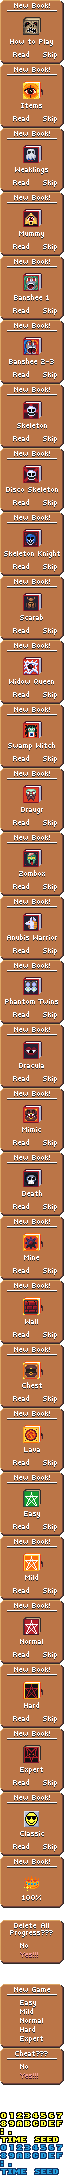
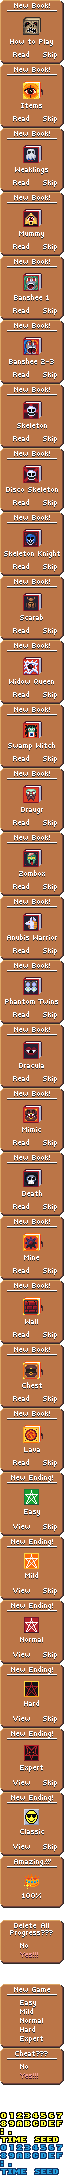
playtest, fixes

Changed region(s): [[0.2812, 0.6562, 0.6875, 0.875], [0.2188, 0.8438, 0.25, 0.875]]

diff --git a/src/main.c b/src/main.c
@@ -827,6 +827,7 @@ static void tile_update(i32 x, i32 y) {
 }
 
 static void set_peek(bool f) {
+  if (g_peek == f) return;
   g_peek = f;
   for (i32 y = 0; y < BOARD_H; y++) {
     for (i32 x = 0; x < BOARD_W; x++) {
@@ -1258,7 +1259,6 @@ static void popup_cheat() {
   if (g_cheat != was_cheating) {
     play_song(SONG_MAIN, true);
   }
-  set_peek(g_cheat ? g_peek : false);
 }
 
 static i32 popup_newgame() {
@@ -1807,8 +1807,8 @@ start_game:
         hint_cooldown = 0;
         hint_cooldown_max = 15;
       }
-      if (g_cheat && (g_hit & SYS_INPUT_ZR)) {
-        set_peek(!g_peek);
+      if (g_cheat) {
+        set_peek(!!(g_down & SYS_INPUT_ZR));
       }
       if (g_hit & SYS_INPUT_U) {
         move_game_cursor(0, -1);
@@ -1856,6 +1856,7 @@ start_game:
         }
       } else if (g_hit & SYS_INPUT_ST) {
         g_time = false;
+        set_peek(false);
         i32 p = pause_menu();
         if (p >= 0 && p < 0x100) {
           // new game
@@ -2134,7 +2135,8 @@ static i32 book_info(enum book_enum book, enum book_info_action action) {
         case BI_DRAW: return DRAW(5, 1, 2);
         case BI_CHECK:
           CHECKG();
-          return count_dead(T_LV9, 10);
+          // you can't actually leave a lv9 dead because they drop required hearts
+          return game->difficulty == 4 ? 10 : 0;
         case BI_CLICK: return book_click_img1(scr_book_lv9_o);
       }
       break;
@@ -2170,7 +2172,8 @@ static i32 book_info(enum book_enum book, enum book_info_action action) {
         case BI_DRAW: return DRAW(9, 1, 1);
         case BI_CHECK:
           CHECKG();
-          return count_dead(T_LAVA, 1) ? 0 : 10; // award mines if we *didn't* blow them up
+          // award mines if we *didn't* blow them up
+          return count_dead(T_LAVA, 1) ? 0 : 10;
         case BI_CLICK: return book_click_img1(scr_book_mine_o);
       }
       break;
@@ -2188,11 +2191,7 @@ static i32 book_info(enum book_enum book, enum book_info_action action) {
         case BI_DRAW: return DRAW(1, 2, 1);
         case BI_CHECK:
           CHECKG();
-          return (
-            count_dead(T_CHEST_HEAL, 10) +
-            count_dead(T_CHEST_EYE2, 10) +
-            count_dead(T_CHEST_EXP, 10)
-          );
+          return game->difficulty >= 3 && game->difficulty <= 4 ? 10 : 0;
         case BI_CLICK: return book_click_img1(scr_book_chest_o);
       }
       break;
@@ -2207,35 +2206,35 @@ static i32 book_info(enum book_enum book, enum book_info_action action) {
       break;
     case B_EASY:
       switch (action) {
-        case BI_DRAW: return DRAW(3, 2, 0);
+        case BI_DRAW: return DRAW(3, 2, 3);
         case BI_CHECK: return game->difficulty == 0 ? 999 : 0;
         case BI_CLICK: return book_click_img1(scr_how1_o);
       }
       break;
     case B_MILD:
       switch (action) {
-        case BI_DRAW: return DRAW(4, 2, 1);
+        case BI_DRAW: return DRAW(4, 2, 3);
         case BI_CHECK: return game->difficulty == 1 ? 999 : 0;
         case BI_CLICK: return book_click_img1(scr_how1_o);
       }
       break;
     case B_NORMAL:
       switch (action) {
-        case BI_DRAW: return DRAW(5, 2, 0);
+        case BI_DRAW: return DRAW(5, 2, 3);
         case BI_CHECK: return game->difficulty == 2 ? 999 : 0;
         case BI_CLICK: return book_click_img1(scr_how1_o);
       }
       break;
     case B_HARD:
       switch (action) {
-        case BI_DRAW: return DRAW(6, 2, 1);
+        case BI_DRAW: return DRAW(6, 2, 3);
         case BI_CHECK: return game->difficulty == 3 ? 999 : 0;
         case BI_CLICK: return book_click_img1(scr_how1_o);
       }
       break;
     case B_EXPERT:
       switch (action) {
-        case BI_DRAW: return DRAW(7, 2, 0);
+        case BI_DRAW: return DRAW(7, 2, 3);
         case BI_CHECK: return game->difficulty == 4 ? 999 : 0;
         case BI_CLICK: return book_click_img1(scr_how1_o);
       }
@@ -2254,8 +2253,26 @@ static i32 book_info(enum book_enum book, enum book_info_action action) {
         case BI_CLICK: {
           popup_cheat();
           if (g_cheat) {
-            // TODO: show how to cheat
-            book_click_img1(scr_how1_o);
+            g_sprites[S_PART_START].pc = ani_ufo;
+            g_sprites[S_PART_START].origin.x = 0;
+            g_sprites[S_PART_START].origin.y = 0;
+            book_click_start();
+            load_scr_raw(BINADDR(scr_cheat_o), BINSIZE(scr_cheat_o), true);
+            sys_set_bg_config(
+              2, // background #
+              0, // priority
+              0, // tile start
+              0, // mosaic
+              1, // 256 colors
+              0x1e, // map start
+              0, // wrap
+              SYS_BGT_SIZE_256X256
+            );
+            palette_fadefromblack();
+            waitstart();
+            palette_fadetoblack();
+            g_sprites[S_PART_START].pc = NULL;
+            book_click_end();
           }
           return 0;
         }

diff --git a/src/anidata.c b/src/anidata.c
@@ -835,3 +835,46 @@ const u16 ani_statsseed[] = {
   STOP()
 };
 #undef STATSXY
+
+const u16 ani_ufo[] = {
+  RESET(),
+  SIZE_16x16(),
+  TILEXY(112, 176),
+  X(-16),
+  Y(5),
+  WAIT(120), WAIT(120), WAIT(120), WAIT(120), WAIT(120), WAIT(120), WAIT(120), WAIT(120),
+  WAIT(120), WAIT(120), WAIT(120), WAIT(120), WAIT(120), WAIT(120), WAIT(120), WAIT(120),
+  ADDX(1), WAIT(1), ADDX(1), WAIT(1), ADDX(1), WAIT(1), ADDX(1), WAIT(1),
+  ADDX(1), WAIT(1), ADDX(1), WAIT(1), ADDX(1), WAIT(1), ADDX(1), WAIT(1),
+  ADDX(1), WAIT(1), ADDX(1), WAIT(1), ADDX(1), WAIT(1), ADDX(1), WAIT(1),
+  ADDX(1), WAIT(1), ADDX(1), WAIT(1), ADDX(1), WAIT(1), ADDX(1), WAIT(1),
+  ADDX(1), WAIT(1), ADDX(1), WAIT(1), ADDX(1), WAIT(1), ADDX(1), WAIT(1),
+  ADDX(1), WAIT(1), ADDX(1), WAIT(1), ADDX(1), WAIT(1), ADDX(1), WAIT(1),
+  ADDX(1), WAIT(1), ADDX(1), WAIT(1), ADDX(1), WAIT(1), ADDX(1), WAIT(1),
+  ADDX(1), WAIT(1), ADDX(1), WAIT(1), ADDX(1), WAIT(1), ADDX(1), WAIT(1),
+  ADDX(1), WAIT(1), ADDX(1), WAIT(1), ADDX(1), WAIT(1), ADDX(1), WAIT(1),
+  ADDX(1), WAIT(1), ADDX(1), WAIT(1), ADDX(1), WAIT(1), ADDX(1), WAIT(1),
+  ADDX(1), WAIT(1), ADDX(1), WAIT(1), ADDX(1), WAIT(1), ADDX(1), WAIT(1),
+  ADDX(1), WAIT(1), ADDX(1), WAIT(1), ADDX(1), WAIT(1), ADDX(1), WAIT(1),
+  ADDX(1), ADDY( 0), WAIT(1), ADDX(1), WAIT(1),
+  ADDX(1), ADDY(-1), WAIT(1), ADDX(1), WAIT(1),
+  ADDX(1), ADDY( 0), WAIT(1), ADDX(1), WAIT(1),
+  ADDX(1), ADDY(-1), WAIT(1), ADDX(1), WAIT(1),
+  ADDX(1), ADDY(-1), WAIT(1), ADDX(1), WAIT(1),
+  ADDX(1), ADDY( 0), WAIT(1), ADDX(1), WAIT(1),
+  ADDX(1), ADDY(-1), WAIT(1), ADDX(1), WAIT(1),
+  ADDX(1), ADDY(-1), WAIT(1), ADDX(1), WAIT(1),
+  ADDX(1), ADDY( 0), WAIT(1), ADDX(1), WAIT(1),
+  ADDX(1), ADDY(-1), WAIT(1), ADDX(1), WAIT(1),
+  ADDX(1), ADDY(-1), WAIT(1), ADDX(1), WAIT(1),
+  ADDX(1), ADDY(-1), WAIT(1), ADDX(1), WAIT(1),
+  ADDX(1), ADDY( 0), WAIT(1), ADDX(1), WAIT(1),
+  ADDX(1), ADDY(-1), WAIT(1), ADDX(1), WAIT(1),
+  ADDX(1), ADDY(-1), WAIT(1), ADDX(1), WAIT(1),
+  ADDX(1), ADDY(-1), WAIT(1), ADDX(1), WAIT(1),
+  ADDX(1), ADDY( 0), WAIT(1), ADDX(1), WAIT(1),
+  ADDX(1), ADDY(-1), WAIT(1), ADDX(1), WAIT(1),
+  ADDX(1), ADDY(-1), WAIT(1), ADDX(1), WAIT(1),
+  ADDX(1), ADDY(-1), WAIT(1), ADDX(1), WAIT(1),
+  STOP()
+};

diff --git a/src/main.h b/src/main.h
@@ -26,6 +26,7 @@ BINFILE(scr_wingame_o);
 BINFILE(scr_how1_o);
 BINFILE(scr_how2_o);
 BINFILE(scr_how3_o);
+BINFILE(scr_cheat_o);
 BINFILE(scr_book_items1_o);
 BINFILE(scr_book_items2_o);
 BINFILE(scr_book_lowlevel_o);

diff --git a/src/anidata.h b/src/anidata.h
@@ -109,3 +109,5 @@ extern const u16 ani_statscol[];
 extern const u16 ani_statsper[];
 extern const u16 ani_statstime[];
 extern const u16 ani_statsseed[];
+
+extern const u16 ani_ufo[];
